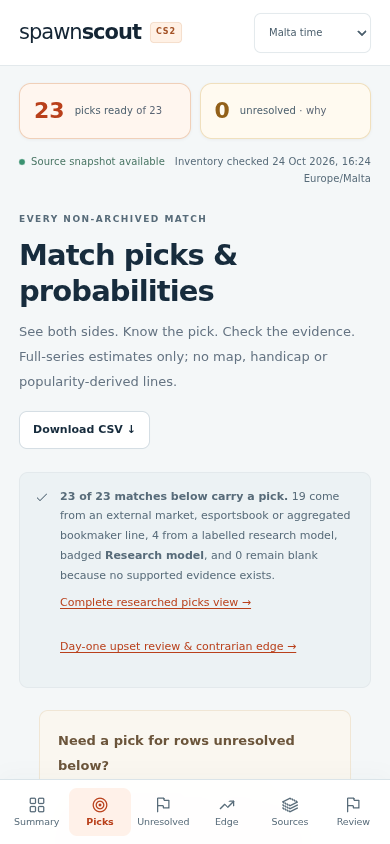
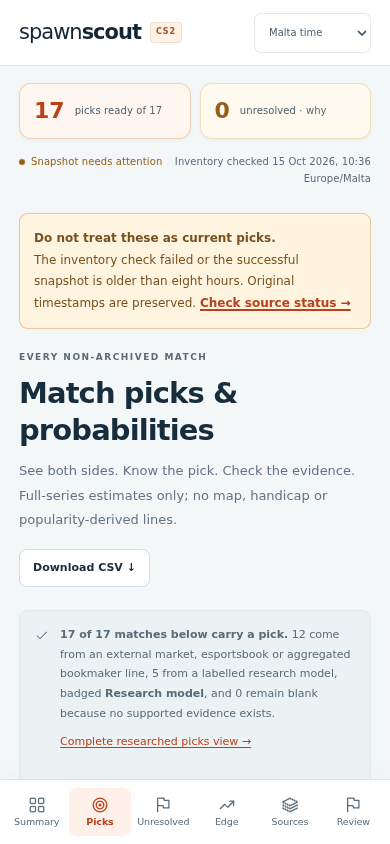
ui(mobile): readable opponent probability on the summary's glance rows; measure both sides at 320/390px

diff --git a/assets/scout.css b/assets/scout.css
@@ -514,8 +514,11 @@
   .glance-match>strong{font-size:15px;line-height:1.35}
   .glance-choice{font-size:12px;gap:8px}
   .glance-choice>strong{font-size:16px;padding:3px 9px}
-  .glance-prob{font-size:14px;padding:2px 7px}
-  .glance-other{font-size:11.5px;padding:3px 7px}
+  /* Both sides of the estimate must be readable on a phone, not just the pick.
+     Measured at 390 px before this change: pick 14 px, opponent 11.5 px.
+     Session arena-6174aa87; sizes are the only change. */
+  .glance-prob{font-size:15px;padding:2px 7px}
+  .glance-other{font-size:13px;padding:3px 7px}
   .glance-time{font-size:11px}
   .glance-links .source-link{font-size:10px;min-height:32px;padding:4px 8px;background:#f8fafb;border:1px solid var(--border);border-radius:6px}
   .exec-banner{padding:14px 14px;margin-bottom:12px;border-radius:12px}
@@ -534,8 +537,8 @@
 }
 @media(max-width:375px){
   .glance-choice>strong{font-size:15px}
-  .glance-prob{font-size:13px}
-  .glance-other{font-size:10.5px}
+  .glance-prob{font-size:14px}
+  .glance-other{font-size:12px}
   .exec-banner h3{font-size:15px}
 }
 /* Obvious pick highlight — green left border for market lines, purple for model */

diff --git a/data/research/6174aa87/README.md b/data/research/6174aa87/README.md
@@ -12,6 +12,14 @@ the only path to a published number.
 | `mobile-check.json` | Layout checks of the published pages at 390 px and 320 px (no horizontal overflow, tappable bottom bar, readable probability text, picks reachable inside one screen). |
 | `screenshots/` | The screenshots those checks measured. |
 
+The screenshots are taken from a **local build of the checked-in replay fixture**
+(`data/latest.json`, 2026-10-15), because this sandbox has no egress to
+`buffedlizard55-lab.github.io`. That is why they show the honest stale-snapshot
+banner and 17 picks: they document *layout*, not the deployed inventory. The
+deployed inventory was verified separately through the runner sweep
+(`pick-provenance.json`: 20 active fixtures, 20 with a pick, 0 missing from the
+live Hotspawn feed).
+
 ## How a row is judged
 
 * `verified` — every cited URL answered and at least one named both teams (or
